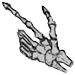
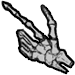
acomode el cursor

Changed region(s): [[0.0, 0.0, 1.0, 1.0]]

diff --git a/stylessobre mi.css b/stylessobre mi.css
@@ -85,6 +85,10 @@ dd{
     align-items: center;
 }
 
+a{
+    cursor: url(img/ad2.png), auto;
+}
+
 .inf{
     font-family: Fear2 ;
     font-size: 40px;
@@ -132,6 +136,7 @@ table{
     text-align:left;
         color: #ffffff;
         margin-bottom: 5px;
+        cursor: url(img/ad.png), auto;
 }
 .formulario h2{
     color: aliceblue;
@@ -140,12 +145,17 @@ table{
     font-family: Fear;
 }
 
+button{
+    cursor: url(img/ad2.png), auto;
+}
+
 input, textarea{
     padding: 8px 10px;
     background-color:#dacae062;
     border: 1px solid rgba(223, 212, 255, 0.622);
     border-radius: 4px;
     margin-bottom: 3px;
+    cursor: url(img/ad3.png), auto;
 }
 .s{
     width: 10px;
